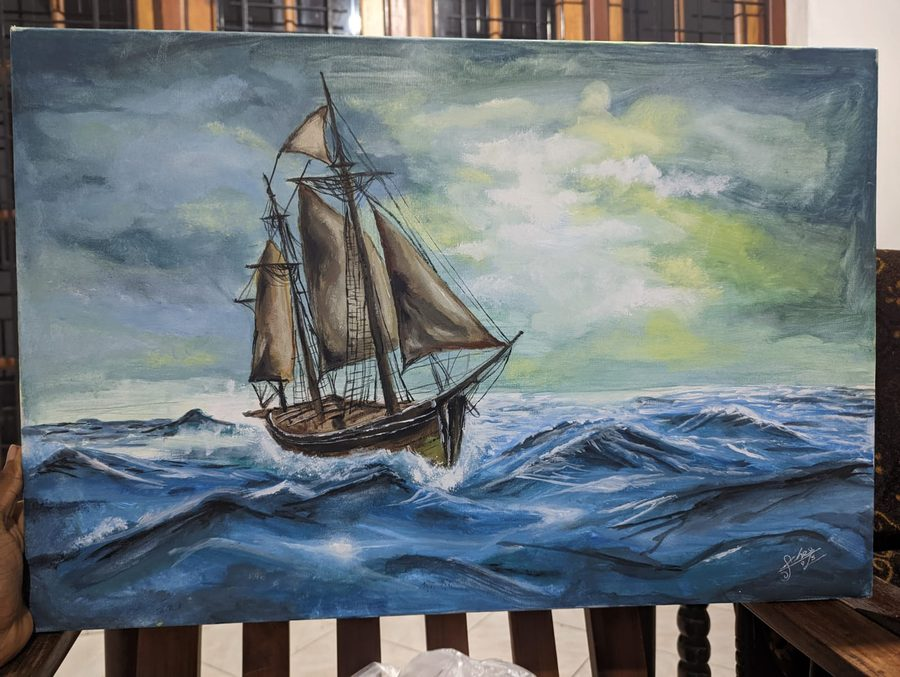
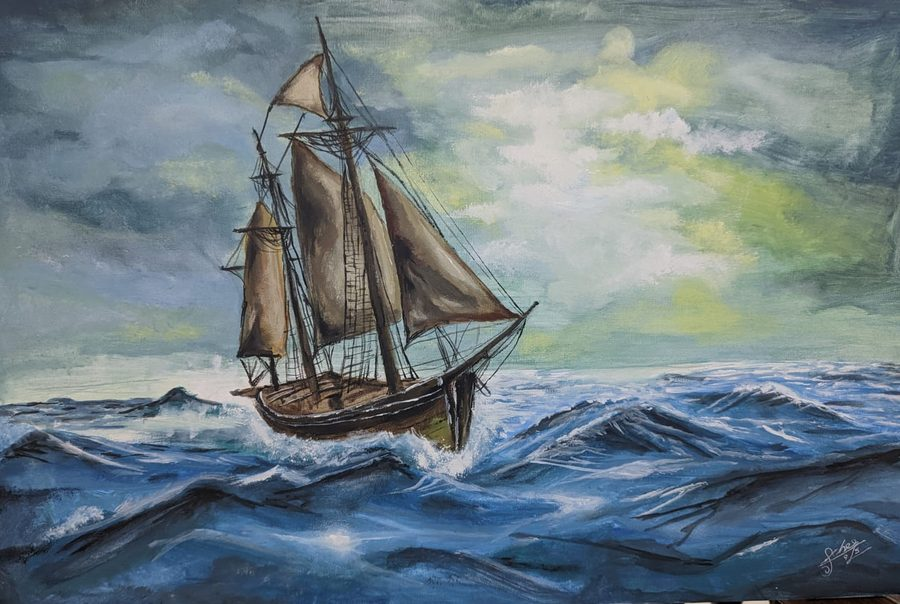
Crop the seascape photo down to the canvas
Removes the hand, window and floor from around the painting.

diff --git a/index.html b/index.html
@@ -210,7 +210,7 @@
         <span class="shot-label">Group portrait</span>
       </button>
       <button class="shot reveal" type="button" data-full="assets/gallery/canvas-ship.jpg" data-caption="Acrylic on canvas — a tall ship riding a heavy swell">
-        <img src="assets/gallery/canvas-ship.jpg" alt="Acrylic painting of a tall sailing ship crossing rough blue seas" width="900" height="677" loading="lazy" decoding="async">
+        <img src="assets/gallery/canvas-ship.jpg" alt="Acrylic painting of a tall sailing ship crossing rough blue seas" width="900" height="604" loading="lazy" decoding="async">
         <span class="shot-label">Seascape on canvas</span>
       </button>
     </div>
